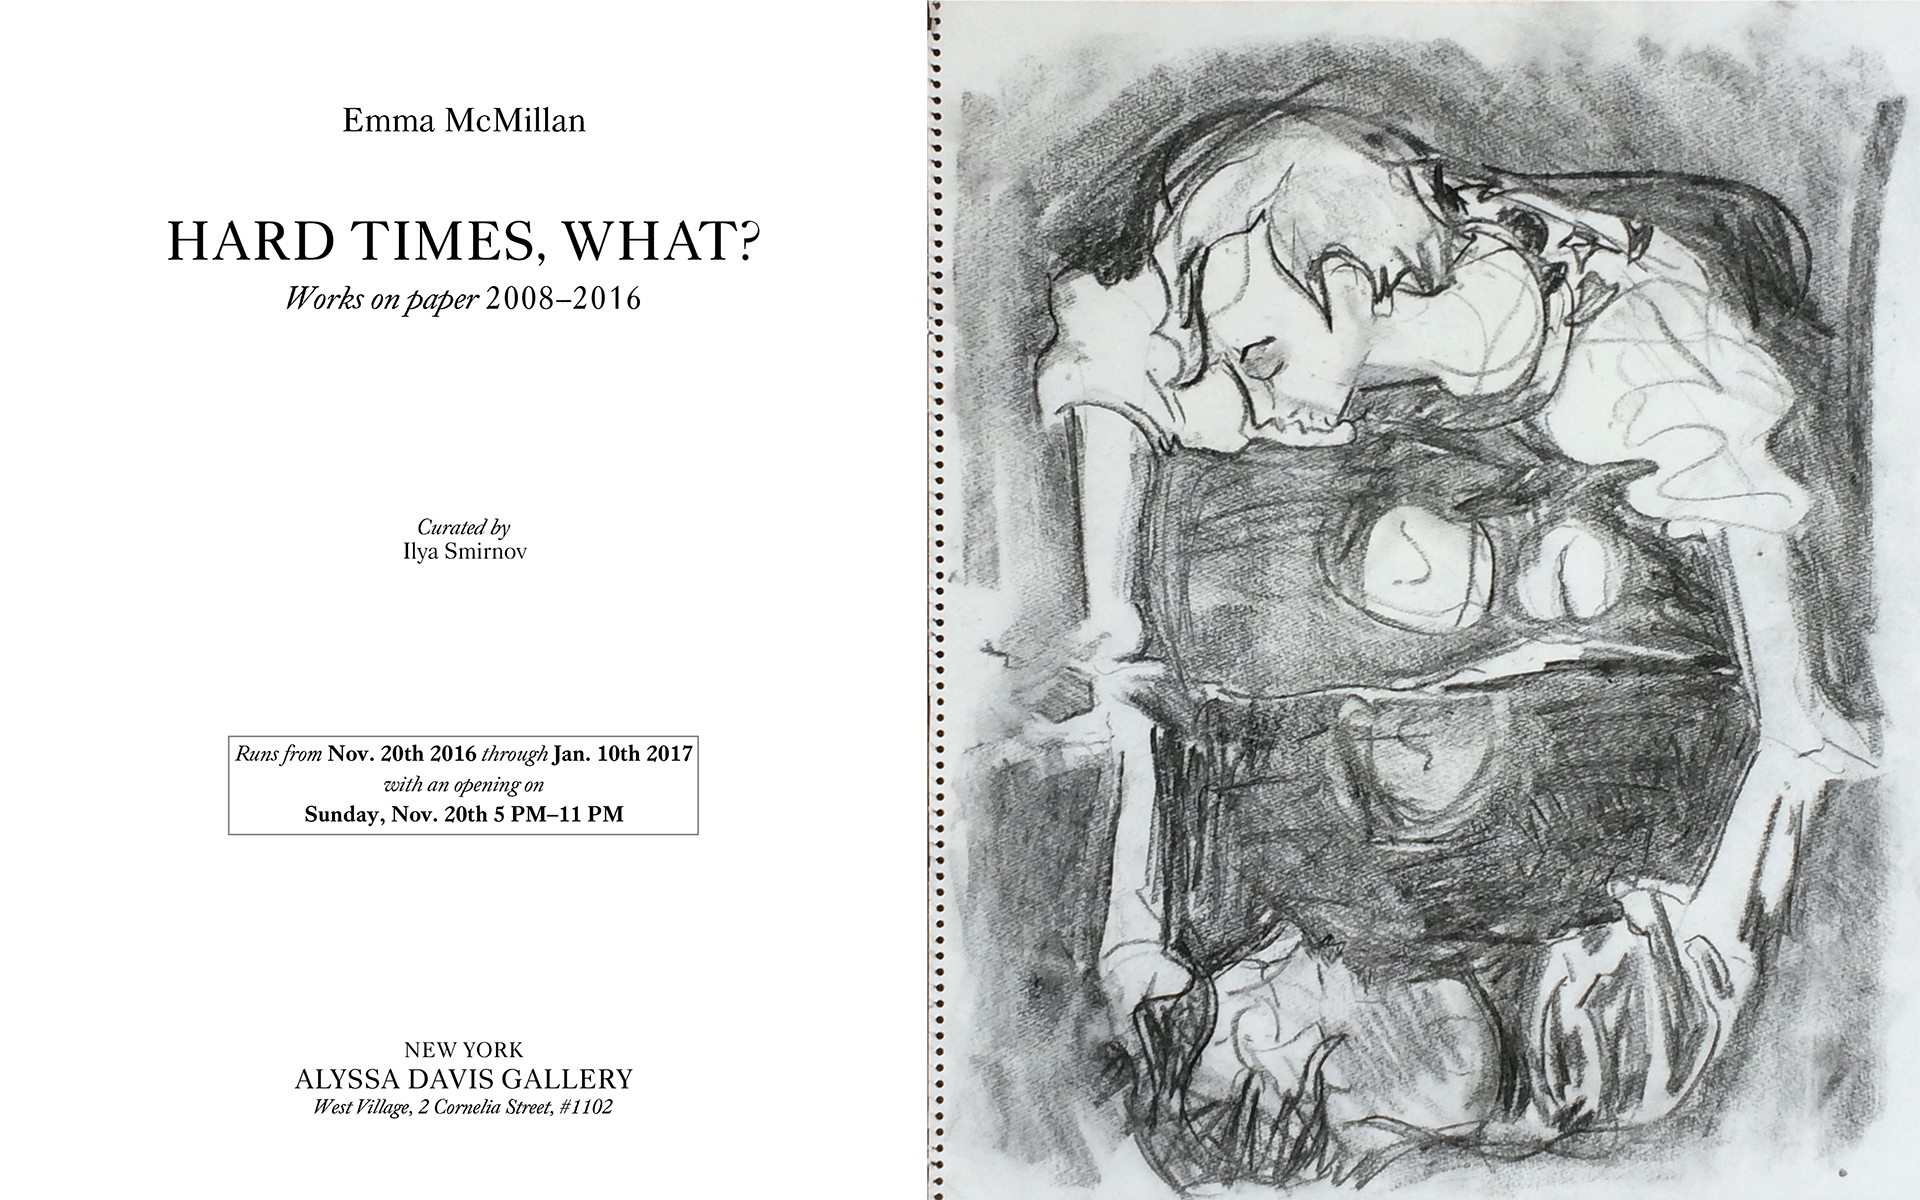
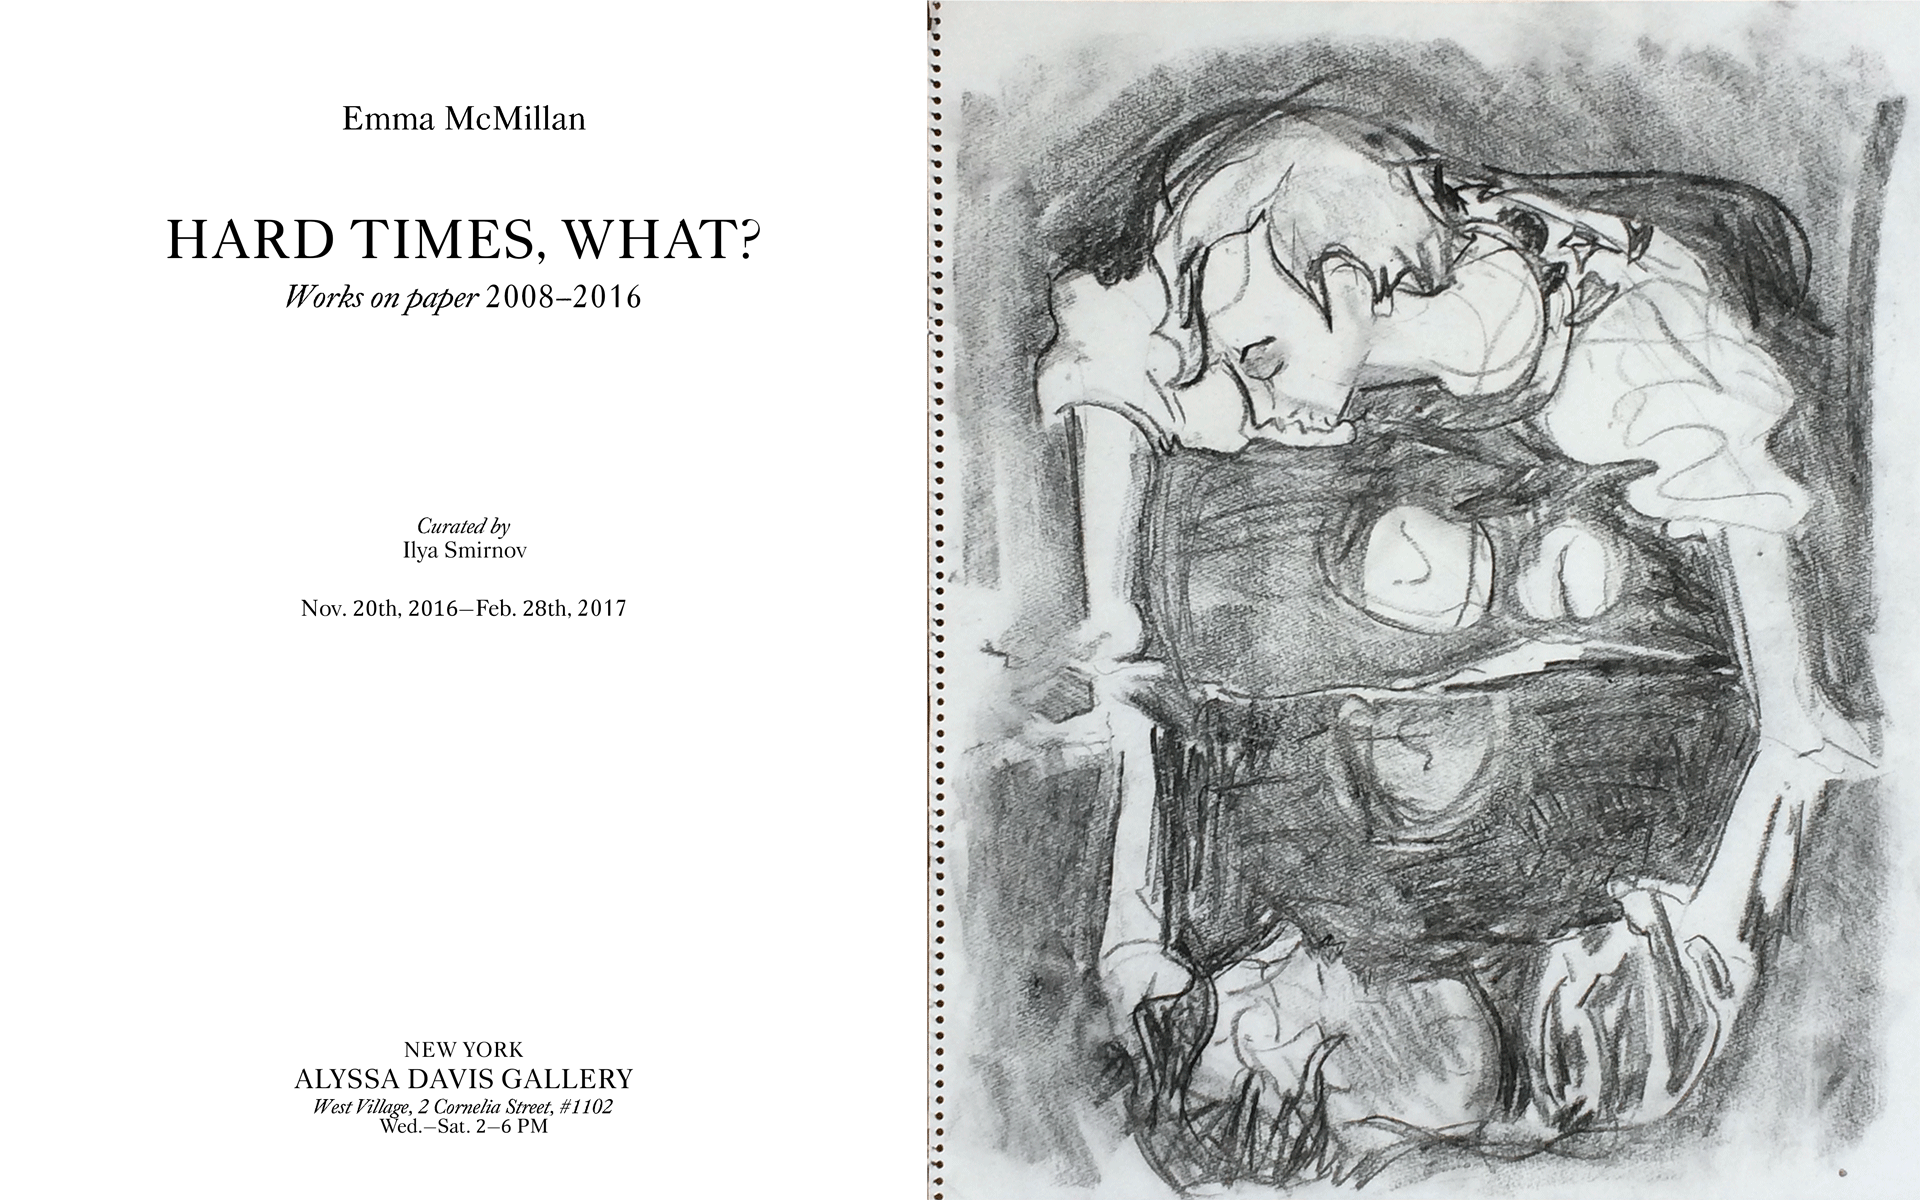
updates images, fixed centered subscribe button

diff --git a/public/css/style1.css b/public/css/style1.css
@@ -1,26 +1,4 @@
-@media only screen and (max-width:  1000px) {
-    body {
-        /*background-color: lightblue;*/
-    }
 
-    html {
-      background: url(../images/EmmaMcMillan-invitation-notice.png) no-repeat center center fixed !important; 
-      -webkit-background-size: 300px auto !important;
-      -moz-background-size: 300px auto !important;
-      -o-background-size: 300px auto !important;
-      background-size: 300px auto !important;
-    }
-
-    #overlay img {
-        display: none !important;
-    }
-
-    #container {
-        width: 20%;
-        left: 40%;
-
-    }
-}
 
 
 
@@ -68,7 +46,7 @@
 }
 
 .form-control {
-    width: 170px;
+    width: 100%;
 }
 
 #title {
@@ -100,7 +78,7 @@
     color: #fdf9fa;
     width: 200px;
     bottom: 20px;
-    right: 10px;
+    right: 30px;
 
 }
 
@@ -163,4 +141,28 @@ input:focus { outline: none; }
 .spacing {
     padding-top: 15px;
     font-size: 10px;
+}
+
+@media only screen and (max-width:  1000px) {
+    body {
+        /*background-color: lightblue;*/
+    }
+
+    html {
+      background: url(../images/EmmaMcMillan-invitation-notice.png) no-repeat center center fixed !important; 
+      -webkit-background-size: 300px auto !important;
+      -moz-background-size: 300px auto !important;
+      -o-background-size: 300px auto !important;
+      background-size: 300px auto !important;
+    }
+
+    #overlay img {
+        display: none !important;
+    }
+
+    #container {
+        width: 36%;
+        left: 32%;
+
+    }
 }

diff --git a/public/index.html b/public/index.html
@@ -35,9 +35,6 @@
             <div id="email">
                 <p>contact@alyssadavis.gallery</p>
             </div>
-            <div id="overlay">
-              <img src="images/hoursbox.png">
-            </div>
             <div id="container">
                     <form class="form-horizontal" role="form" id="test-form">
                         <div class="form-group">
